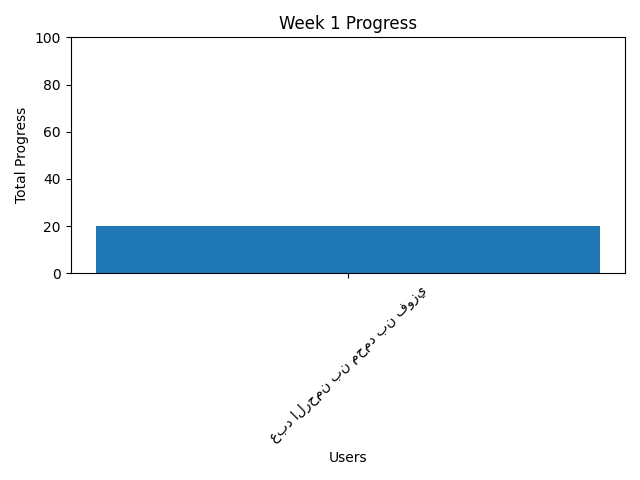
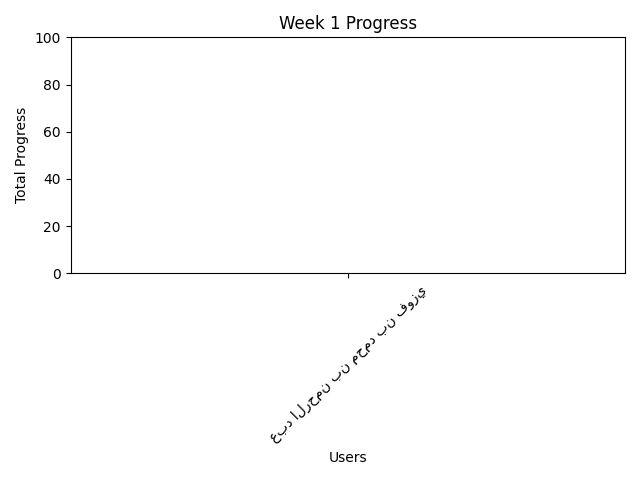
fixed a slight bug with division by zero

Changed region(s): [[0.125, 0.4688, 0.9375, 0.5938]]

diff --git a/helpers.py b/helpers.py
@@ -21,6 +21,8 @@ def get_total_progress(tasks: list[Task]) -> float:
     total_progress: float = 0.0
     for task in tasks:
         total_progress += task.completion_percentage
+    if len(tasks) == 0:
+        return 0.0
     return total_progress/len(tasks)
 
 def convert_tasks_to_self_report(tasks: list[Task]) -> str:
